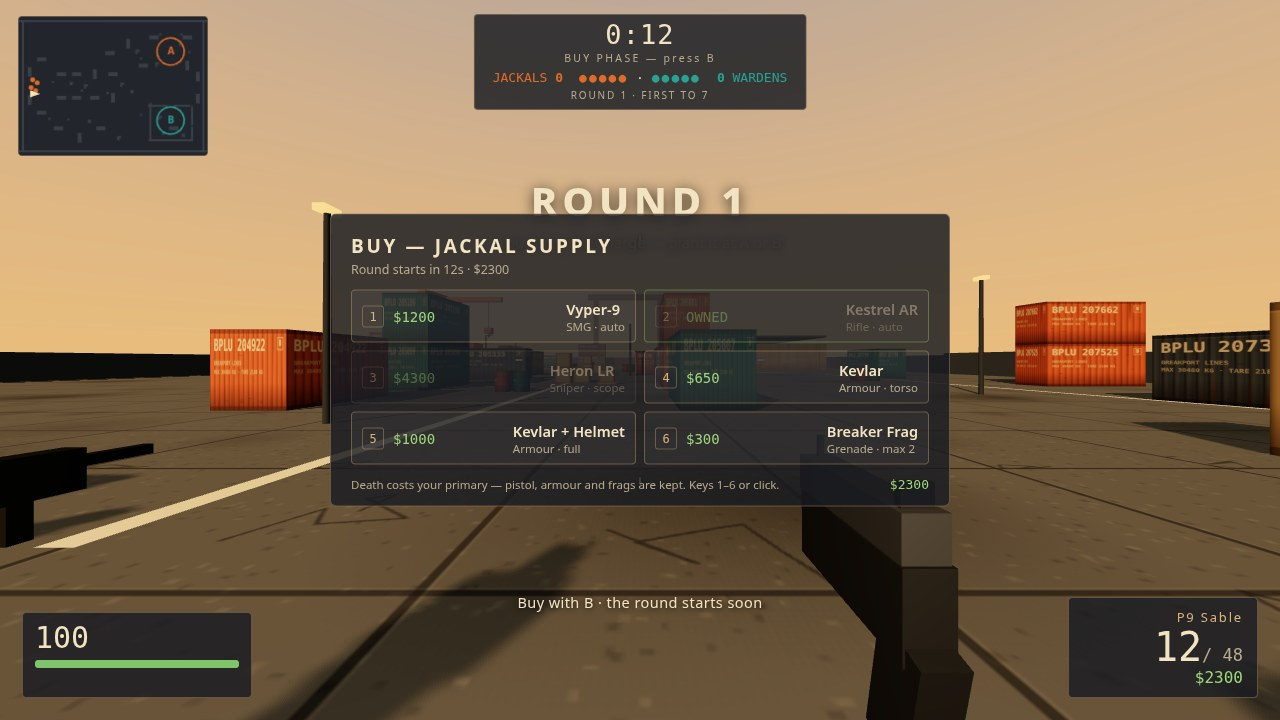
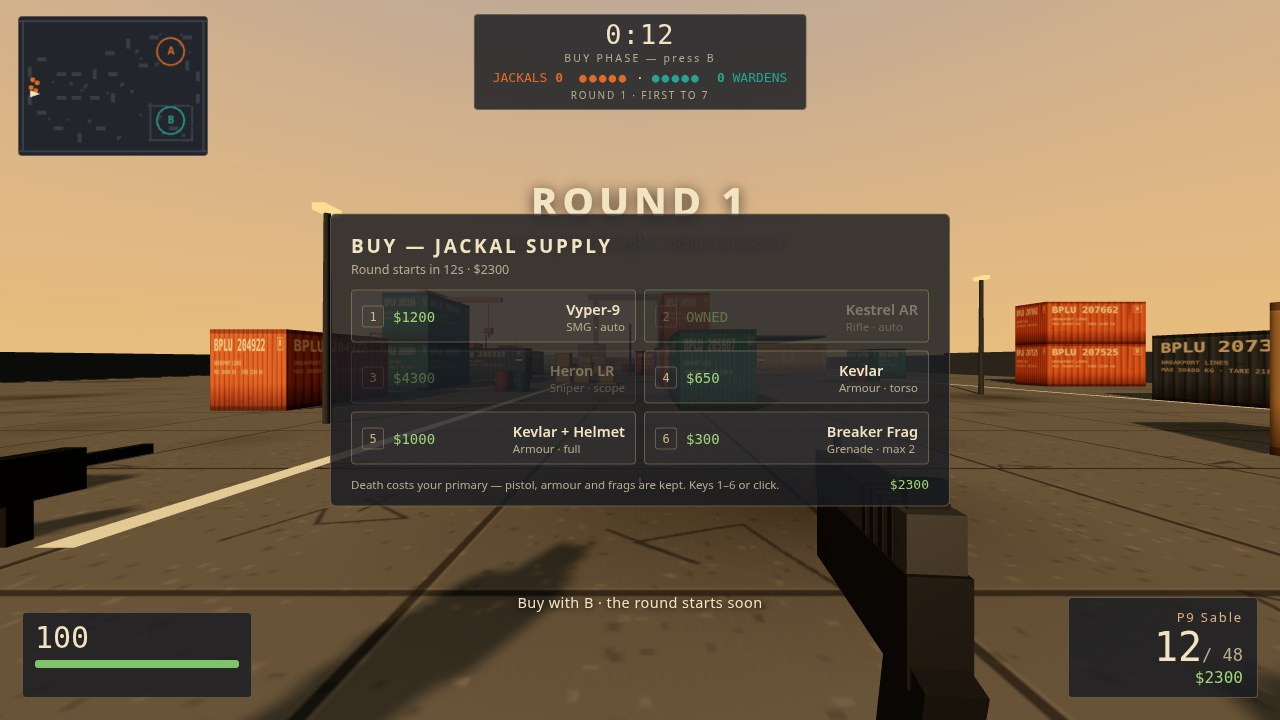
Weapon view models rebuilt after the reference frame: three-quarter hold, toothed top rails, ring optics with tinted lenses, suppressor, vented handguard, slide serrations; Kestrel wears a signature violet finish (flash light in the posed shot tamed so the finish survives the freeze-frame)

Changed region(s): [[0.625, 0.7028, 0.7812, 1.0], [0.6562, 0.8861, 0.7188, 1.0]]

diff --git a/game/src/weapons.js b/game/src/weapons.js
@@ -45,21 +45,39 @@ export function createWeapons(camera, scene, input, player) {
   const holder = new THREE.Group();
   camera.add(holder);
   // a soft fill light riding the camera so the held weapon reads at any angle
-  const fill = new THREE.PointLight(0xffe0b8, 1.7, 0, 2);
+  const fill = new THREE.PointLight(0xffe0b8, 0.85, 0, 2);
   fill.position.set(0.05, 0.12, 0.15);
   camera.add(fill);
   const models = {};
   function vm(key, build) {
     const g = new THREE.Group();
-    g.position.set(0.26, -0.22, -0.45);
+    g.position.set(0.24, -0.205, -0.40);
+    g.rotation.y = -0.10; // three-quarter hold: the top rail and the left side read
     build(g);
     g.visible = false;
     holder.add(g);
     models[key] = g;
   }
   const dark = mat(0x2c2f33, 0.5, 0.5), mid = mat(0x4a4f55, 0.45, 0.55), accent = mat(0xc65a21, 0.5, 0.3);
+  const violet = mat(0x4516b0, 0.45, 0.2); // the Kestrel's signature finish (deep violet; kept saturated by the gentler camera fill light)
   function part(g, w, h, d, m, x, y, z) { const p = new THREE.Mesh(new THREE.BoxGeometry(w, h, d), m); p.position.set(x, y, z); g.add(p); return p; }
   function tube(g, r, len, m, x, y, z) { const p = new THREE.Mesh(new THREE.CylinderGeometry(r, r, len, 10), m); p.rotation.x = Math.PI / 2; p.position.set(x, y, z); g.add(p); return p; }
+  // Picatinny rail: a base strip with evenly spaced teeth — the one detail
+  // that makes a slab read as a tactical rifle at screenshot distance.
+  function rail(g, y, z0, z1, m) {
+    part(g, 0.034, 0.016, z0 - z1, m, 0, y, (z0 + z1) / 2);
+    for (let z = z1 + 0.022; z < z0; z += 0.045) part(g, 0.04, 0.02, 0.02, m, 0, y + 0.015, z);
+  }
+  // Ring optic: a torus you can see through, a mount post, a tinted lens.
+  function optic(g, y, z, r) {
+    const ring = new THREE.Mesh(new THREE.TorusGeometry(r, Math.max(0.008, r * 0.26), 8, 22), dark);
+    ring.position.set(0, y, z); g.add(ring);
+    const h = Math.max(0.02, y - 0.082);
+    part(g, 0.018, h, 0.026, dark, 0, 0.082 + h / 2, z);
+    const lens = new THREE.Mesh(new THREE.CircleGeometry(r * 0.82, 20),
+      new THREE.MeshStandardMaterial({ color: 0x0d2b2e, emissive: 0x1f8a80, emissiveIntensity: 0.7, roughness: 0.15, metalness: 0.1, transparent: true, opacity: 0.85 }));
+    lens.position.set(0, y, z + 0.004); g.add(lens);
+  }
   // Each view model is assembled from real parts — receiver, barrel, magazine,
   // stock, sights, rail — so the gun in hand reads as a gun, not a slab.
   vm('knife', (g) => {
@@ -70,6 +88,7 @@ export function createWeapons(camera, scene, input, player) {
   vm('sable', (g) => {
     part(g, 0.05, 0.09, 0.26, dark, 0, -0.012, -0.1);                 // frame
     part(g, 0.046, 0.05, 0.27, mid, 0, 0.056, -0.11);                 // slide
+    for (let i = 0; i < 4; i++) part(g, 0.048, 0.052, 0.009, dark, 0, 0.056, -0.005 - i * 0.02); // slide serrations
     const grip = part(g, 0.045, 0.13, 0.07, dark, 0, -0.1, 0.005); grip.rotation.x = 0.22;
     part(g, 0.008, 0.032, 0.008, dark, 0, 0.096, -0.225);             // front post
     part(g, 0.032, 0.026, 0.012, dark, 0, 0.092, 0.005);              // rear sight
@@ -81,20 +100,28 @@ export function createWeapons(camera, scene, input, player) {
     tube(g, 0.016, 0.13, mid, 0, 0.012, -0.57);                       // barrel
     const mag = part(g, 0.04, 0.17, 0.075, mid, 0, -0.135, -0.12); mag.rotation.x = 0.16;
     part(g, 0.045, 0.08, 0.16, dark, 0, 0.008, 0.13);                 // stock
-    part(g, 0.02, 0.02, 0.3, mid, 0, 0.072, -0.15);                   // top rail
+    rail(g, 0.068, 0.05, -0.52, dark);                                // top rail with teeth
+    optic(g, 0.118, -0.18, 0.038);                                    // ring red-dot
     part(g, 0.008, 0.04, 0.008, dark, 0, 0.075, -0.48);               // front post
     part(g, 0.058, 0.03, 0.12, accent, 0, -0.02, -0.22);              // accent stripe
   });
   vm('kestrel', (g) => {
-    part(g, 0.055, 0.11, 0.5, dark, 0, 0, -0.16);                     // receiver
-    part(g, 0.052, 0.085, 0.26, mid, 0, 0, -0.44);                    // handguard
-    tube(g, 0.015, 0.17, dark, 0, 0.006, -0.64);                      // barrel
-    tube(g, 0.024, 0.06, mid, 0, 0.006, -0.72);                       // muzzle brake
-    const mag = part(g, 0.042, 0.15, 0.08, mid, 0, -0.125, -0.16); mag.rotation.x = 0.12;
-    const grip = part(g, 0.04, 0.11, 0.06, dark, 0, -0.1, 0.03); grip.rotation.x = 0.3;
-    part(g, 0.05, 0.09, 0.18, dark, 0, 0, 0.15);                      // stock
-    part(g, 0.05, 0.058, 0.13, accent, 0, 0.086, -0.18);              // carry handle
-    part(g, 0.008, 0.046, 0.008, dark, 0, 0.062, -0.52);              // front post
+    part(g, 0.06, 0.115, 0.52, violet, 0, 0, -0.16);                  // receiver, signature violet
+    part(g, 0.066, 0.10, 0.30, violet, 0, 0.002, -0.47);              // chunky handguard
+    part(g, 0.068, 0.028, 0.26, dark, 0, -0.048, -0.47);              // under-rail shadow line
+    for (const sx of [-1, 1]) for (let i = 0; i < 3; i++)             // handguard vent slots
+      part(g, 0.002, 0.02, 0.05, dark, sx * 0.034, 0.02, -0.36 - i * 0.09);
+    tube(g, 0.016, 0.14, dark, 0, 0.008, -0.66);                      // barrel
+    tube(g, 0.03, 0.15, dark, 0, 0.008, -0.79);                       // suppressor can
+    part(g, 0.02, 0.05, 0.06, dark, -0.031, 0.01, -0.13);             // ejection port, left face
+    part(g, 0.03, 0.02, 0.02, mid, 0.032, 0.03, 0.02);                // charging-handle wing
+    const mag = part(g, 0.044, 0.17, 0.085, dark, 0, -0.135, -0.17); mag.rotation.x = 0.18;
+    const grip = part(g, 0.042, 0.115, 0.06, dark, 0, -0.105, 0.04); grip.rotation.x = 0.32;
+    part(g, 0.052, 0.095, 0.19, dark, 0, -0.002, 0.16);               // stock
+    part(g, 0.054, 0.03, 0.12, violet, 0, 0.055, 0.17);               // cheek riser, violet
+    rail(g, 0.068, 0.08, -0.60, dark);                                // full-length top rail
+    optic(g, 0.125, -0.20, 0.045);                                    // ring red-dot
+    part(g, 0.008, 0.04, 0.008, dark, 0, 0.075, -0.58);               // front post
   });
   vm('heron', (g) => {
     part(g, 0.052, 0.105, 0.6, dark, 0, 0, -0.2);                     // receiver
@@ -103,6 +130,12 @@ export function createWeapons(camera, scene, input, player) {
     tube(g, 0.026, 0.3, dark, 0, 0.108, -0.2);                        // scope tube
     tube(g, 0.037, 0.07, dark, 0, 0.108, -0.335);                     // objective bell
     tube(g, 0.032, 0.05, dark, 0, 0.108, -0.055);                     // eyepiece
+    const eyeLens = new THREE.Mesh(new THREE.CircleGeometry(0.024, 18),
+      new THREE.MeshStandardMaterial({ color: 0x0d2b2e, emissive: 0x1f8a80, emissiveIntensity: 0.8, roughness: 0.15, metalness: 0.1 }));
+    eyeLens.position.set(0, 0.108, -0.029); g.add(eyeLens);           // glass the player looks into
+    const objLens = eyeLens.clone(); objLens.rotation.y = Math.PI;
+    objLens.position.set(0, 0.108, -0.371); g.add(objLens);
+    rail(g, 0.062, 0.05, -0.45, dark);                                // rail under the scope
     part(g, 0.02, 0.05, 0.03, mid, 0, 0.062, -0.28);                  // scope mounts
     part(g, 0.02, 0.05, 0.03, mid, 0, 0.062, -0.12);
     part(g, 0.05, 0.1, 0.3, mid, 0, -0.012, 0.17);                    // stock
@@ -119,13 +152,23 @@ export function createWeapons(camera, scene, input, player) {
   const flash = new THREE.Mesh(new THREE.PlaneGeometry(0.34, 0.34),
     new THREE.MeshBasicMaterial({ map: muzzleFlashTexture(), color: 0xffe9bb, transparent: true, opacity: 0, blending: THREE.AdditiveBlending, depthWrite: false }));
   holder.add(flash);
-  // Muzzle-tip offsets in holder space per weapon (the view-model group sits
-  // at 0.26,-0.22,-0.45; each barrel ends at its own depth), so the flash
-  // blooms on the barrel tip, not at screen centre.
-  const MUZZLE = {
-    sable: [0.26, -0.21, -0.73], vyper: [0.26, -0.208, -1.11],
-    kestrel: [0.26, -0.214, -1.22], heron: [0.26, -0.21, -1.33],
+  // Muzzle tips in each view model's LOCAL space. anchorFlash() converts
+  // through the group's world matrix, so the flash stays glued to the barrel
+  // tip however the group is posed (the three-quarter hold included).
+  const MUZZLE_LOCAL = {
+    sable: [0, 0.01, -0.27], vyper: [0, 0.012, -0.65],
+    kestrel: [0, 0.008, -0.88], heron: [0, 0.01, -0.87],
   };
+  const _mv = new THREE.Vector3();
+  function anchorFlash() {
+    const ml = MUZZLE_LOCAL[load.current], g = models[load.current];
+    if (!ml || !g) return;
+    camera.updateMatrixWorld(true);
+    _mv.set(ml[0], ml[1], ml[2]);
+    g.localToWorld(_mv);
+    holder.worldToLocal(_mv);
+    flash.position.copy(_mv);
+  }
 
   // --- tracers + impacts: small pools, reused, no per-shot allocation -------
   const tracerMat = new THREE.LineBasicMaterial({ color: 0xffd9a0, transparent: true, opacity: 0 });
@@ -324,8 +367,7 @@ export function createWeapons(camera, scene, input, player) {
   function refreshModels() {
     for (const k in models) models[k].visible = k === load.current;
     grenadeModel.visible = load.current === 'grenade';
-    const mz = MUZZLE[load.current];
-    if (mz) flash.position.set(mz[0], mz[1], mz[2]);
+    anchorFlash();
     holder.position.z = player.zoomed ? 0.4 : 0; // hide the view model in scope
   }
 
@@ -424,12 +466,13 @@ export function createWeapons(camera, scene, input, player) {
   // to the target, sparks already bursting off it — set after the last sim
   // step, so nothing decays before the capture renders.
   function poseShotFx(tx, ty, tz) {
+    anchorFlash(); // matrices are fresh after the sim steps: re-glue the flash
     camera.getWorldPosition(_origin);
     camera.getWorldDirection(_dir);
     flash.material.opacity = 1;
     flash.rotation.z = 0.6;
     flashLight.position.set(_origin.x + _dir.x * 0.8, _origin.y - 0.04, _origin.z + _dir.z * 0.8);
-    flashLight.intensity = 34;
+    flashLight.intensity = 5; // the posed frame holds this light forever: at full strength its warm blast washes the held weapon pink, while the additive flash sprite still blooms on its own
     _target.set(tx, ty, tz);
     _origin.y -= 0.12; _origin.addScaledVector(_dir, 0.4);
     tracer(_origin, _target);
